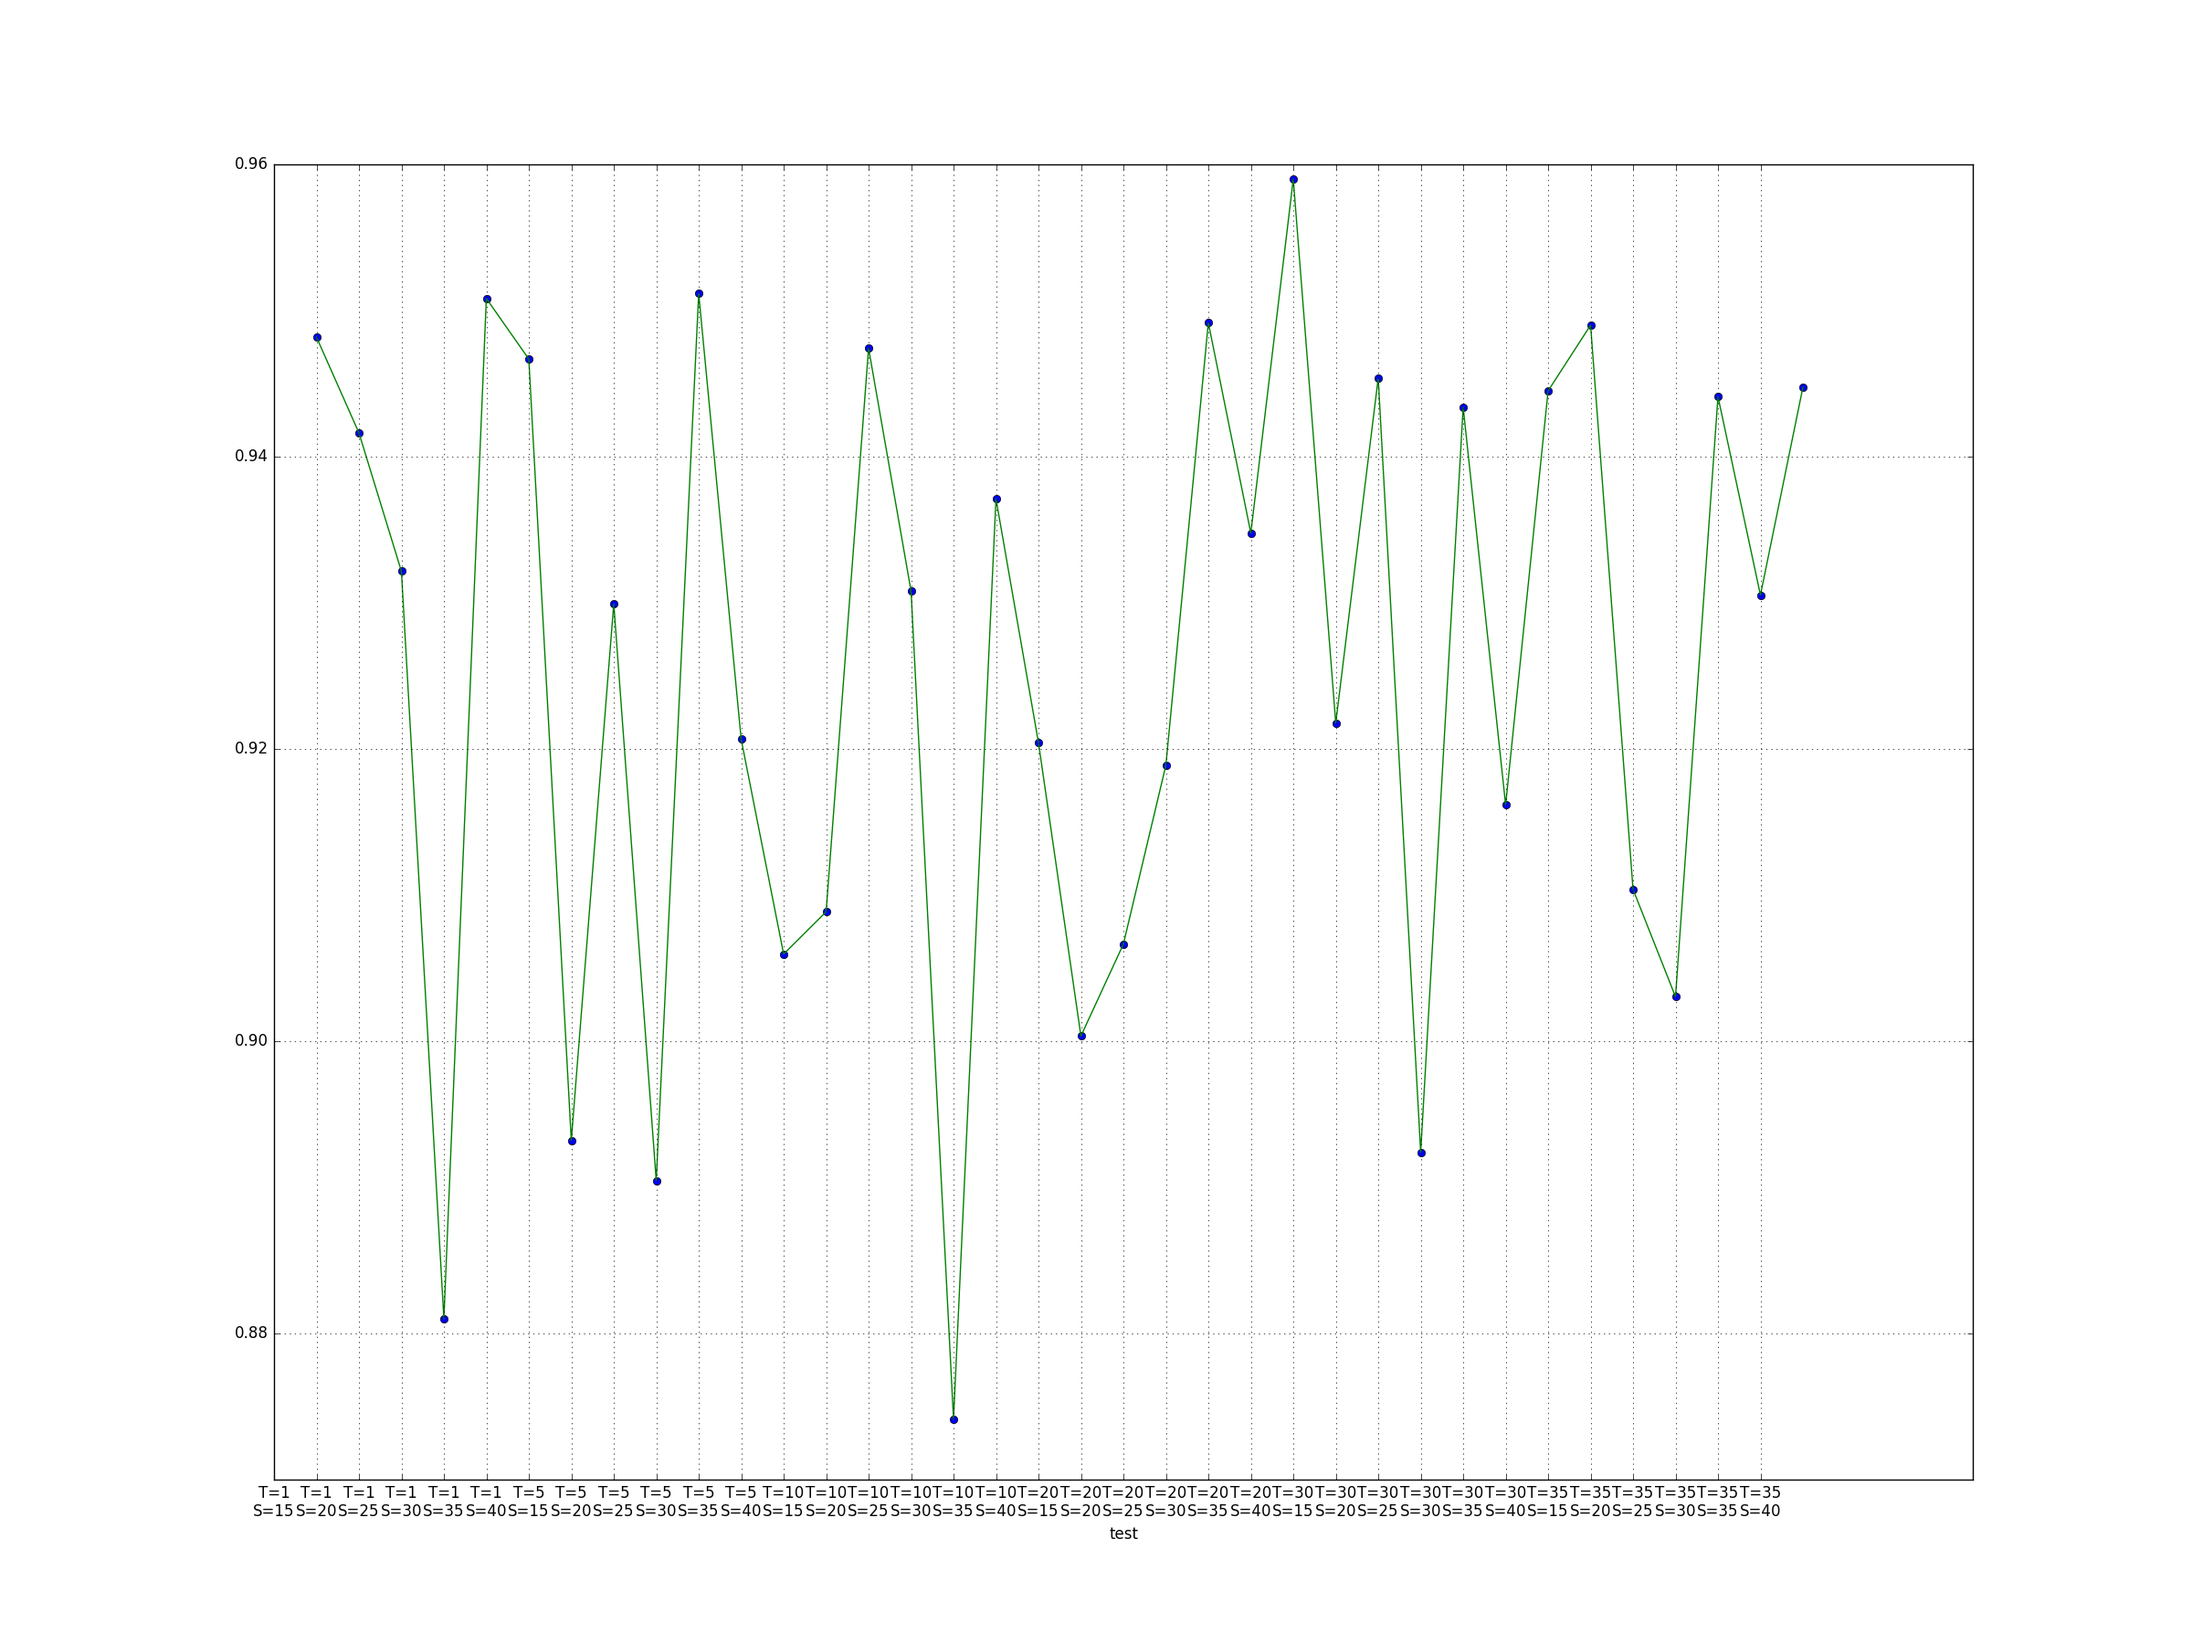
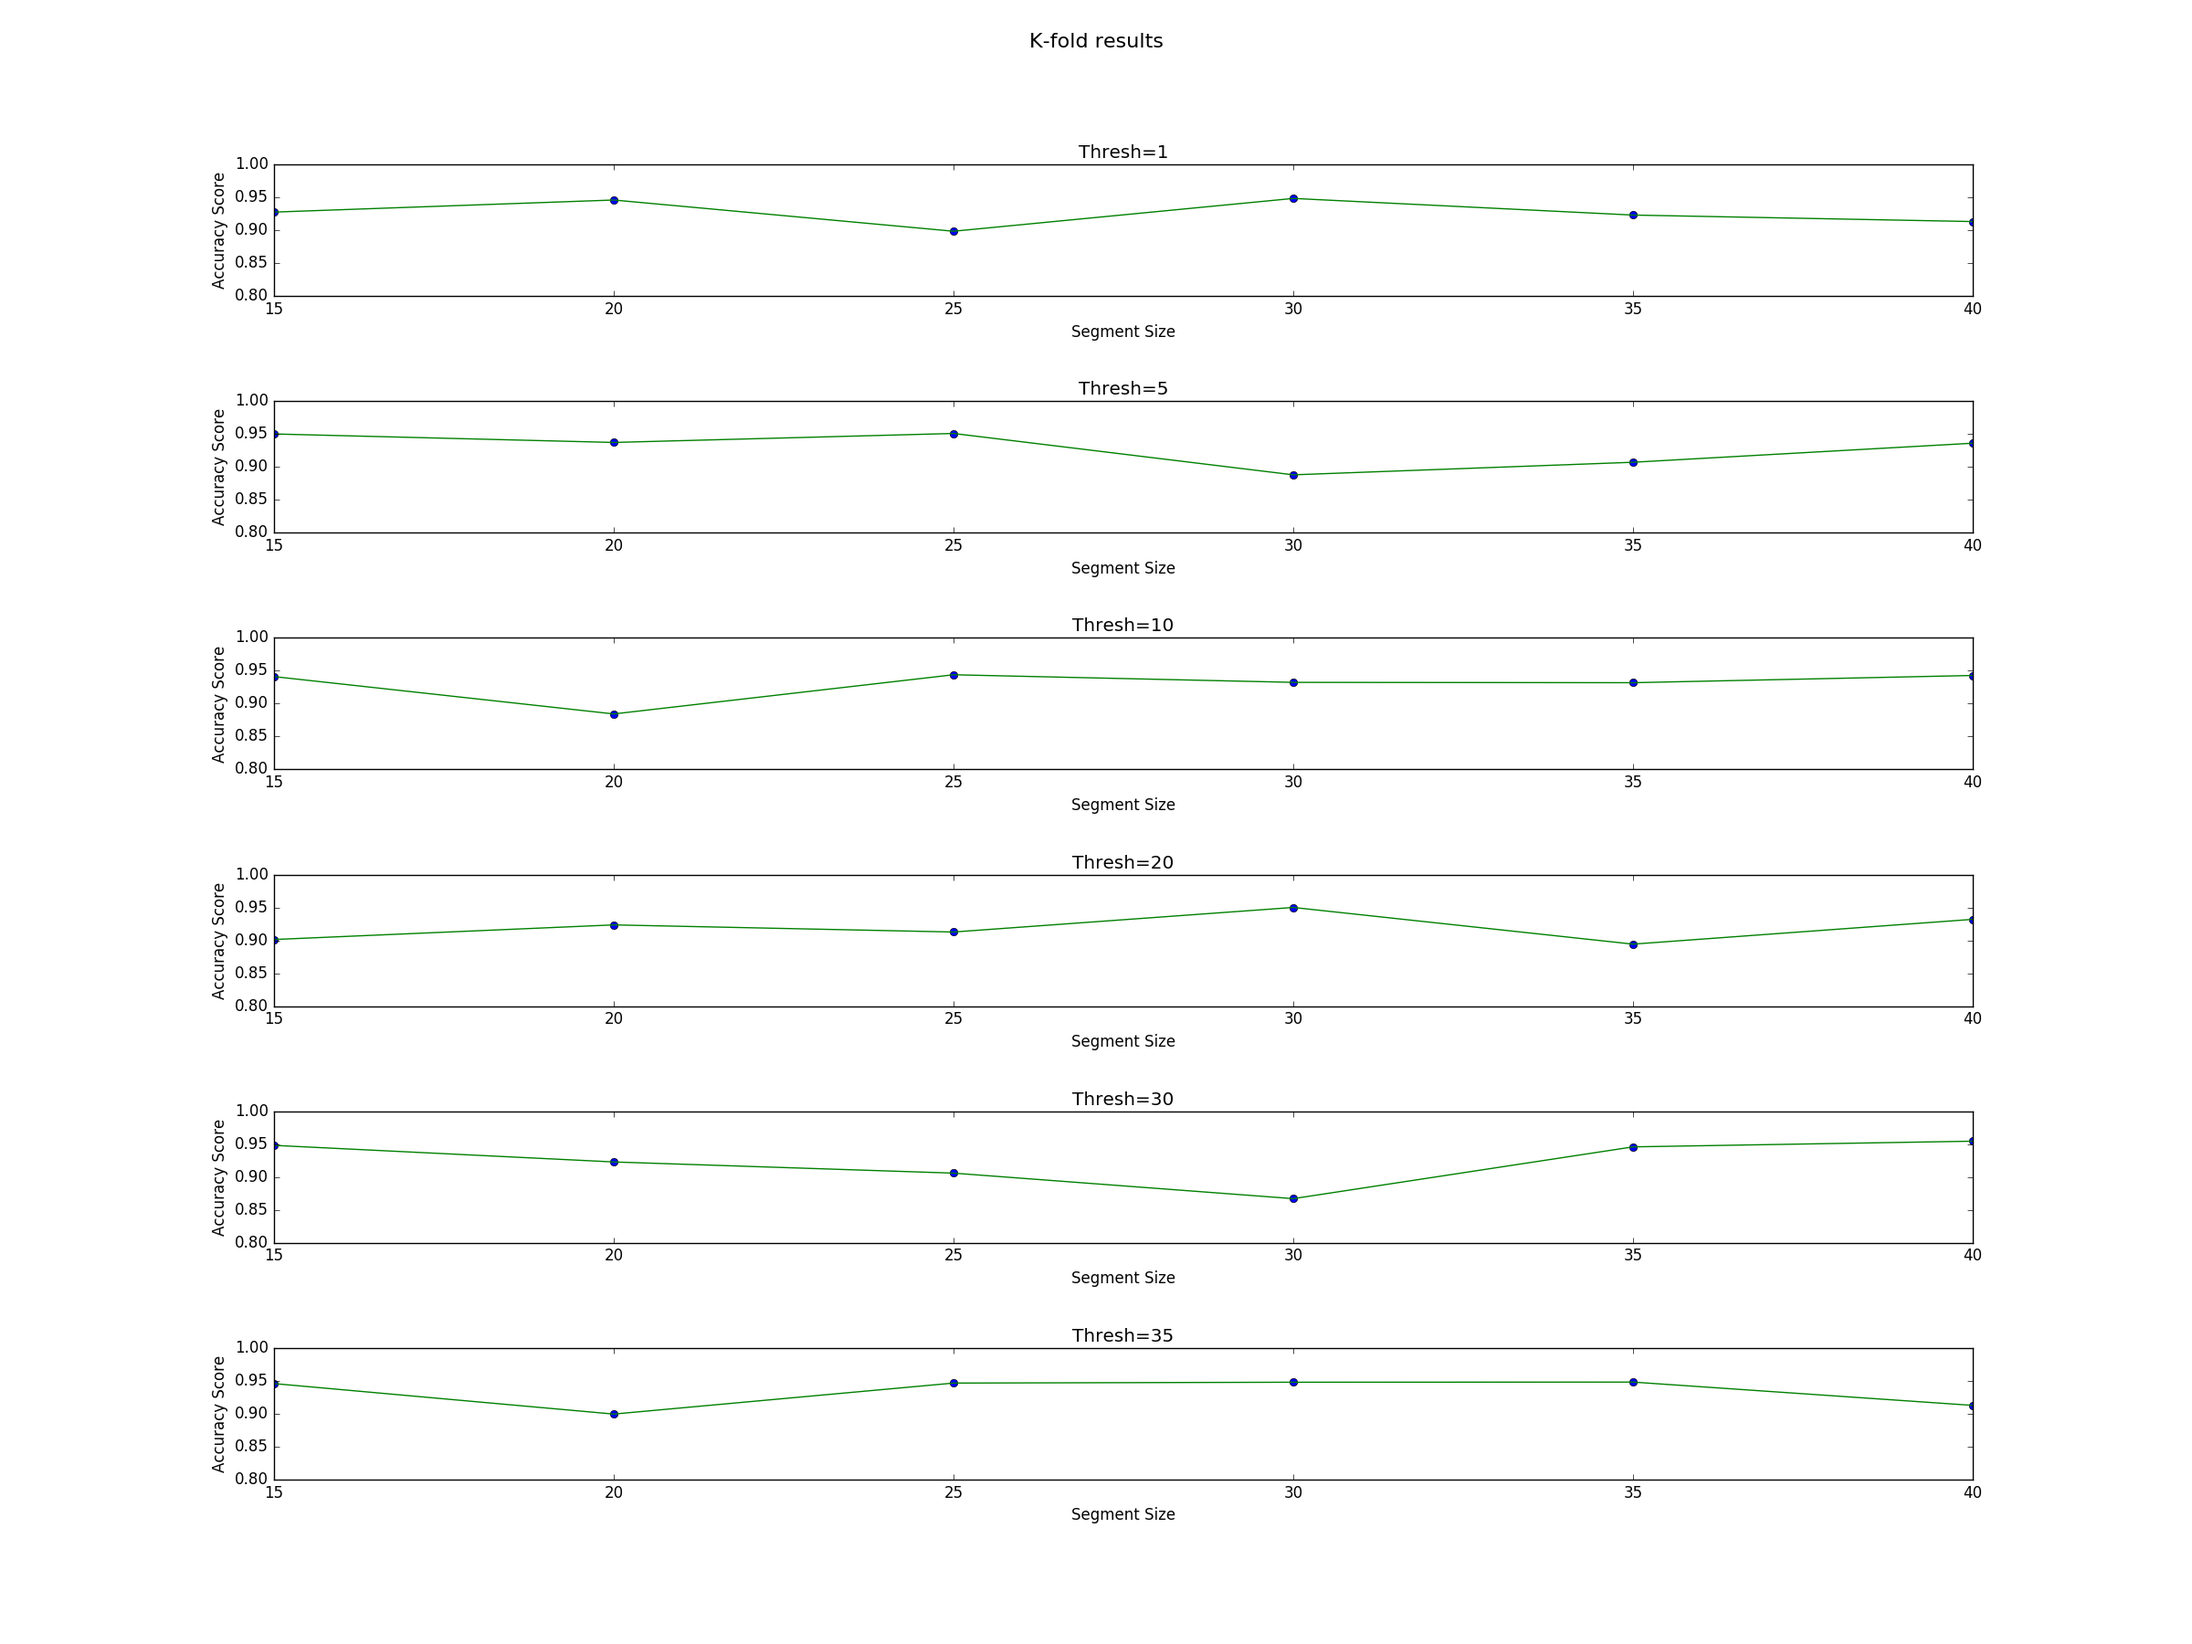
refine plot

diff --git a/training/K_fold.py b/training/K_fold.py
@@ -42,34 +42,33 @@ def K_fold(K=10,C=0.1,SEGMENT_SIZE=30,thresh=1):
 
 if __name__ == '__main__':
 	##unit teset##
-	score=K_fold(K=10,C=0.1,SEGMENT_SIZE=20,thresh=5)
-	print score
+	# score=K_fold(K=10,C=0.1,SEGMENT_SIZE=20,thresh=5)
+	# print score
 
 
 	##train multipule k-fold with different threshold and segment size
-	# t1 = []
-	# t2 = []
-	# xlabel=[]
-
-	# thresh=[1,5,10,20,30,35]
-	# SEGMENT_SIZE=[15,20,25,30,35,40]
-
-
-	# index=1
-	# for thr in thresh:
-	# 	for seg in SEGMENT_SIZE:
-
-	# 		l='T='+str(thr)+'\nS='+str(seg)
-	# 		print 'T='+str(thr)+', S='+str(seg)
-	# 		t1.append(index)
-	# 		t2.append(K_fold(K=10,C=0.1,SEGMENT_SIZE=seg,thresh=thr))
-	# 		xlabel.append(l)
-	# 		index+=1
+	t1 = []
+	t2 = []
+	xlabel=[]
+	thresh=[1,5,10,20,30,35]
+	SEGMENT_SIZE=[15,20,25,30,35,40]
 
 
+	index=1
+	for thr in thresh:
+		for seg in SEGMENT_SIZE:
 
-	# t1=np.array(t1)
-	# t2=np.array(t2)
+			l='T='+str(thr)+'\nS='+str(seg)
+			print 'T='+str(thr)+', S='+str(seg)
+			t1.append(index)
+			t2.append(K_fold(K=10,C=0.1,SEGMENT_SIZE=seg,thresh=thr))
+			xlabel.append(l)
+			index+=1
+
+
+
+	t1=np.array(t1)
+	t2=np.array(t2)
 
 
 ###############################
@@ -85,7 +84,7 @@ if __name__ == '__main__':
 	# default_size=fig.get_size_inches()
 	# fig.set_size_inches((default_size[0]*3, default_size[1]*3))
 	# p.set_xlabel("test")
-	# fig.savefig("Plots/k-fold_Results.png")
+	# fig.savefig("../Plots/k-fold_Results.png")
 	# plt.show()
 	# plt.close()
 
@@ -97,67 +96,74 @@ if __name__ == '__main__':
 	# t1=np.array(range(0,36))
 	# t2=np.array(range(0,36))
 
-	# fig = plt.figure()
-	# fig.suptitle('K-fold results', fontsize=16)
+	fig = plt.figure()
+	fig.suptitle('K-fold results', fontsize=16)
 
-	# p1=fig.add_subplot(611)
-	# p1.set_title('Thresh='+str(thresh[0]))
-	# p1.set_xticklabels([15,20,25,30,35,40])
-	# p1.set_xlabel("Segment Size")
-	# p1.set_ylabel("Accuracy Score")
-	# p1.plot(t1[0:6],t2[0:6],'bo') 
-	# p1.plot(t1[0:6],t2[0:6],'g')
+	p1=fig.add_subplot(611)
+	p1.set_title('Thresh='+str(thresh[0]))
+	p1.set_xticklabels([15,20,25,30,35,40])
+	p1.set_xlabel("Segment Size")
+	p1.set_ylabel("Accuracy Score")
+	p1.plot(t1[0:6],t2[0:6],'bo') 
+	p1.set_ylim([0.8,1])
+	p1.plot(t1[0:6],t2[0:6],'g')
 
-	# p2=fig.add_subplot(612)
-	# p2.set_title('Thresh='+str(thresh[1]))
-	# p2.set_xticklabels([15,20,25,30,35,40])
-	# p2.set_xlabel("Segment Size")
-	# p2.set_ylabel("Accuracy Score")
-	# p2.plot(t1[6:12],t2[6:12],'bo') 
-	# p2.plot(t1[6:12],t2[6:12],'g')
+	p2=fig.add_subplot(612)
+	p2.set_title('Thresh='+str(thresh[1]))
+	p2.set_xticklabels([15,20,25,30,35,40])
+	p2.set_xlabel("Segment Size")
+	p2.set_ylabel("Accuracy Score")
+	p2.set_ylim([0.8,1])
+	p2.plot(t1[6:12],t2[6:12],'bo') 
+	p2.plot(t1[6:12],t2[6:12],'g')
 
-	# p3=fig.add_subplot(613)
-	# p3.set_title('Thresh='+str(thresh[2]))
-	# p3.set_xticklabels([15,20,25,30,35,40])
-	# p3.set_xlabel("Segment Size")
-	# p3.set_ylabel("Accuracy Score")
-	# p3.plot(t1[12:18],t2[12:18],'bo') 
-	# p3.plot(t1[12:18],t2[12:18],'g')
+	p3=fig.add_subplot(613)
+	p3.set_title('Thresh='+str(thresh[2]))
+	p3.set_xticklabels([15,20,25,30,35,40])
+	p3.set_xlabel("Segment Size")
+	p3.set_ylabel("Accuracy Score")
+	p3.set_ylim([0.8,1])
+	p3.plot(t1[12:18],t2[12:18],'bo') 
+	p3.plot(t1[12:18],t2[12:18],'g')
 
-	# p4=fig.add_subplot(614)
-	# p4.set_title('Thresh='+str(thresh[3]))
-	# p4.set_xticklabels([15,20,25,30,35,40])
-	# p4.set_xlabel("Segment Size")
-	# p4.set_ylabel("Accuracy Score")
-	# p4.plot(t1[18:24],t2[18:24],'bo') 
-	# p4.plot(t1[18:24],t2[18:24],'g')
+	p4=fig.add_subplot(614)
+	p4.set_title('Thresh='+str(thresh[3]))
+	p4.set_xticklabels([15,20,25,30,35,40])
+	p4.set_xlabel("Segment Size")
+	p4.set_ylabel("Accuracy Score")
+	p4.set_ylim([0.8,1])
+	p4.plot(t1[18:24],t2[18:24],'bo') 
+	p4.plot(t1[18:24],t2[18:24],'g')
 
-	# p5=fig.add_subplot(615)
-	# p5.set_title('Thresh='+str(thresh[4]))
-	# p5.set_xticklabels([15,20,25,30,35,40])
-	# p5.set_xlabel("Segment Size")
-	# p5.set_ylabel("Accuracy Score")
-	# p5.plot(t1[24:30],t2[24:30],'bo') 
-	# p5.plot(t1[24:30],t2[24:30],'g')
+	p5=fig.add_subplot(615)
+	p5.set_title('Thresh='+str(thresh[4]))
+	p5.set_xticklabels([15,20,25,30,35,40])
+	p5.set_xlabel("Segment Size")
+	p5.set_ylabel("Accuracy Score")
+	p5.set_ylim([0.8,1])
+	p5.plot(t1[24:30],t2[24:30],'bo') 
+	p5.plot(t1[24:30],t2[24:30],'g')
 
-	# p6=fig.add_subplot(616)
-	# p6.set_title('Thresh='+str(thresh[5]))
-	# p6.set_xticklabels([15,20,25,30,35,40])
-	# p6.set_xlabel("Segment Size")
-	# p6.set_ylabel("Accuracy Score")
-	# p6.plot(t1[30:36],t2[30:36],'bo') 
-	# p6.plot(t1[30:36],t2[30:36],'g')
+	p6=fig.add_subplot(616)
+	p6.set_title('Thresh='+str(thresh[5]))
+	p6.set_xticklabels([15,20,25,30,35,40])
+	p6.set_xlabel("Segment Size")
+	p6.set_ylabel("Accuracy Score")
+	p6.set_ylim([0.8,1])
+	p6.plot(t1[30:36],t2[30:36],'bo') 
+	p6.plot(t1[30:36],t2[30:36],'g')
 
 
-	# fig=plt.gcf()
-	# default_size=fig.get_size_inches()
-	# fig.set_size_inches((default_size[0]*3, default_size[1]*3))
 
-	# fig.subplots_adjust(hspace=0.8,wspace=1)
+	fig=plt.gcf()
+	default_size=fig.get_size_inches()
+	fig.set_size_inches((default_size[0]*3, default_size[1]*3))
 
-	# fig.savefig("Plots/K-fold_Results_AllinOne.png")
-	# plt.show()
-	# plt.close()
+	fig.subplots_adjust(hspace=0.8,wspace=1)
+
+	fig.savefig("../Plots/K-fold_Results_AllinOne.png")
+	plt.show()
+	plt.close()
 
 
 
